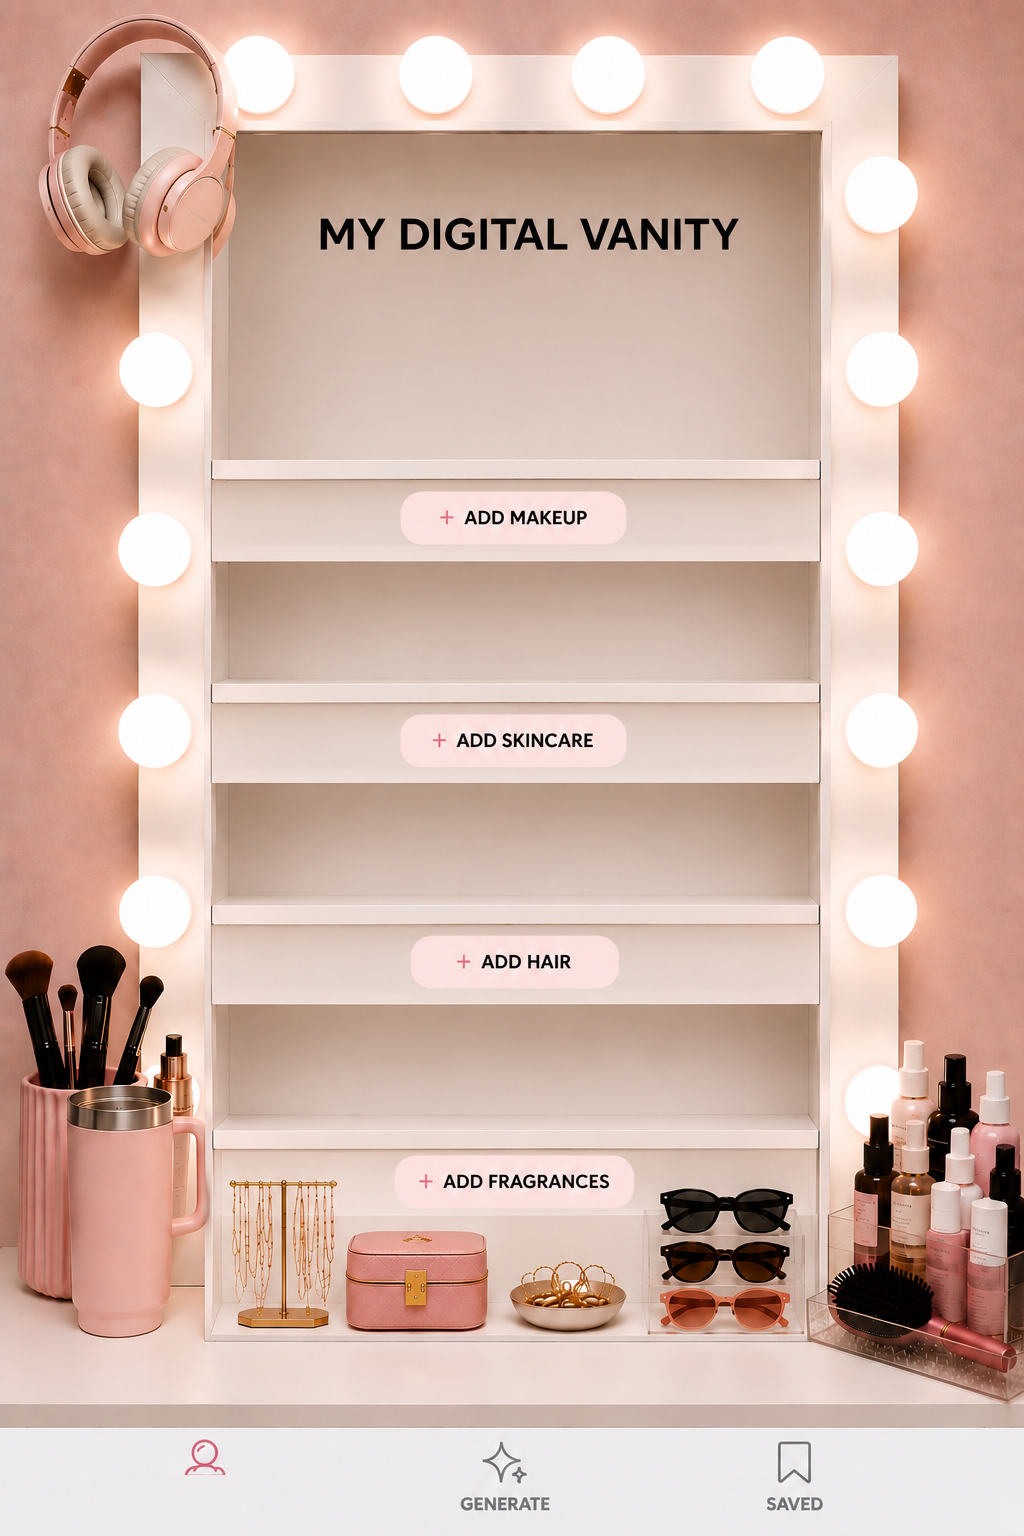
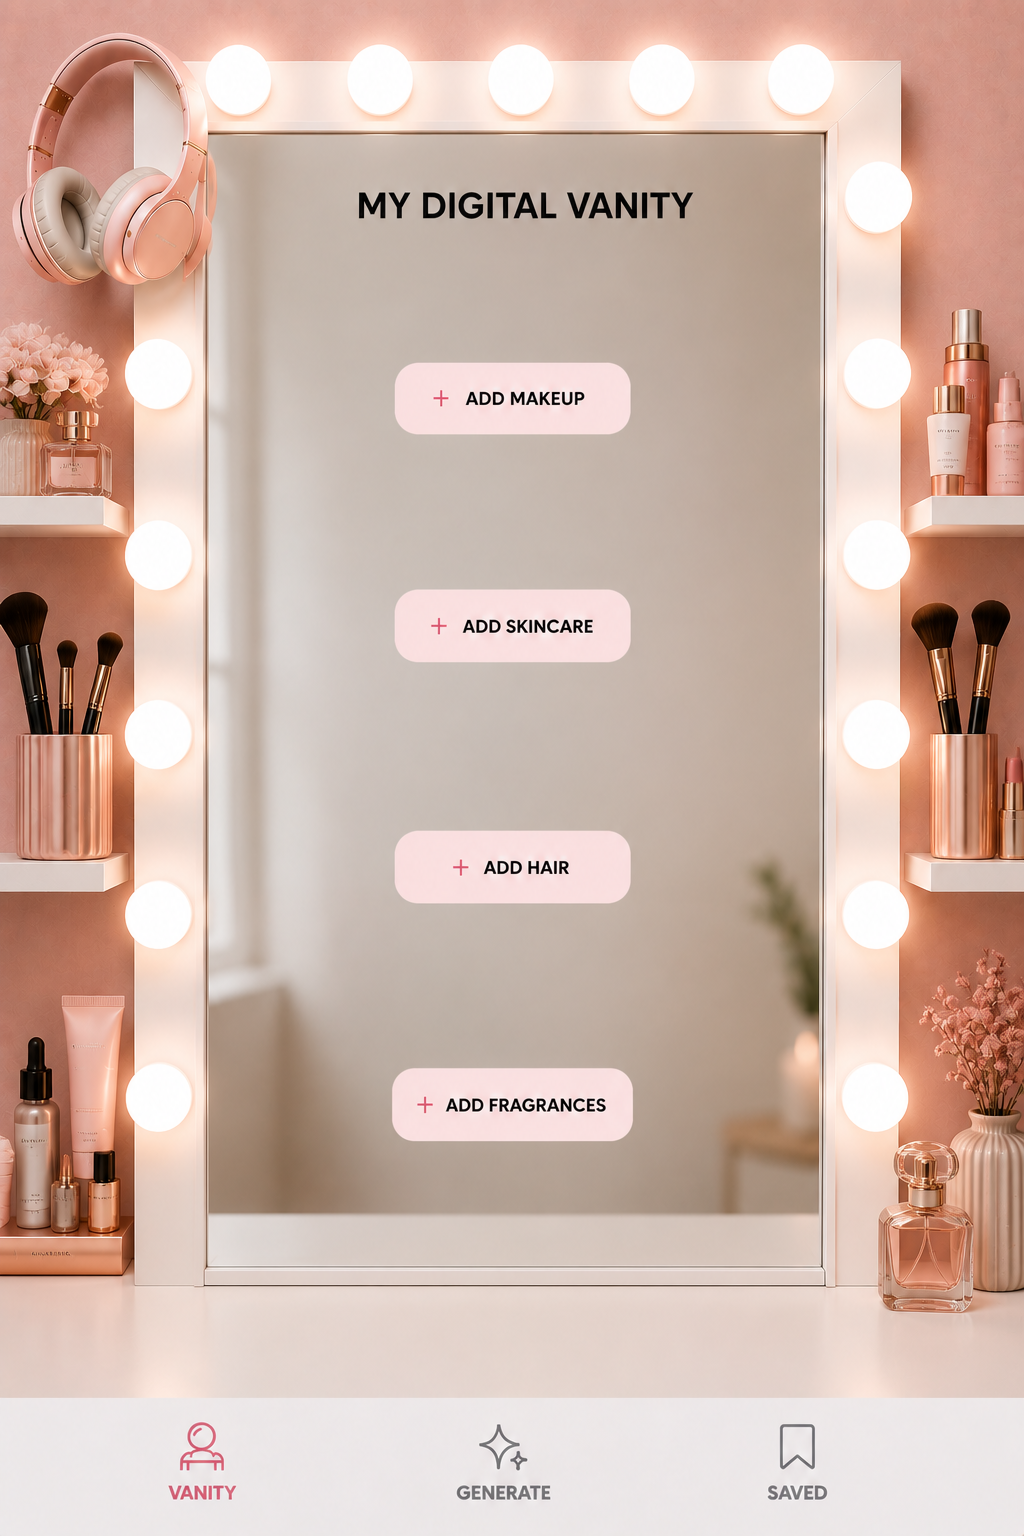
Update wardrobe page styling and refresh vanity background image
Replit-Commit-Author: Agent

diff --git a/artifacts/outfit-generator/src/pages/wardrobe.tsx b/artifacts/outfit-generator/src/pages/wardrobe.tsx
@@ -54,22 +54,23 @@ const IMG_H = 1536;
 const NAV_H = 90;
 
 // ── Landmark fractions (measured from the 1024×1536 vanity PNG) ──────────────
-// doorL/doorR: inner mirror area edges (inside the bulb frame)
-// rows[i]: sectionTop = y where section starts, shelfY = shelf surface y
-// btnCY: y-centre of the baked-in pink ADD pill in the background
+// Pixel-scanned from the new no-shelf background (6AC7C7ED…png).
+// doorL/doorR: inner mirror glass edges at mid-height (x=212, x=820 / 1024)
+// rows[i].btnCY:     y-centre of the baked-in pink ADD pill
+// rows[i].sectionTop: one pixel below the pill bottom — where items begin
+// rows[i].shelfY:     top of the NEXT pill — where items end
 const LM = {
-  doorL: 0.185,  // x≈190/1024 — left inner edge of white shelf area
-  doorR: 0.815,  // x≈835/1024 — right inner edge
+  doorL: 0.207,  // x≈212/1024 — left inner mirror glass edge
+  doorR: 0.801,  // x≈820/1024 — right inner mirror glass edge
 
   rows: [
-    { sectionTop: 0.185, shelfY: 0.395, btnCY: 0.305 },  // TOPS
-    { sectionTop: 0.395, shelfY: 0.555, btnCY: 0.478 },  // BOTTOMS
-    { sectionTop: 0.555, shelfY: 0.715, btnCY: 0.635 },  // SHOES
-    { sectionTop: 0.715, shelfY: 0.855, btnCY: 0.785 },  // ACCESSORIES
+    { sectionTop: 0.281, shelfY: 0.384, btnCY: 0.260 },  // MAKEUP     y=432–590
+    { sectionTop: 0.430, shelfY: 0.542, btnCY: 0.407 },  // SKINCARE   y=660–832
+    { sectionTop: 0.587, shelfY: 0.703, btnCY: 0.565 },  // HAIR       y=902–1080
+    { sectionTop: 0.742, shelfY: 0.820, btnCY: 0.723 },  // FRAGRANCES y=1140–1260
   ],
 
-  // Floating save area — just above the baked-in bottom shelf items
-  saveAreaY: 0.86,
+  saveAreaY: 0.84,
 } as const;
 
 // ── useImageRect ─────────────────────────────────────────────────────────────
@@ -260,7 +261,7 @@ export default function WardrobePage() {
             return (
               <React.Fragment key={key}>
 
-                {/* ── Item carousel — fills the entire shelf section ── */}
+                {/* ── Item carousel — fills the section between buttons ── */}
                 {items.length > 0 && (
                   <div
                     data-testid={`row-${key}`}
@@ -271,7 +272,7 @@ export default function WardrobePage() {
                       width:  carW,
                       height: secH,
                       zIndex: 10,
-                      overflow: "hidden",
+                      overflow: "visible",
                     }}
                   >
                     <ClosetRow
@@ -312,12 +313,12 @@ export default function WardrobePage() {
                     style={{
                       position: "absolute",
                       top:    secTop + 6,
-                      right:  ir.width - (carLeft + carW) + 6,
+                      left:   carLeft + carW - 34,
                       width:  28,
                       height: 28,
                       zIndex: 30,
                       background: "rgba(255,145,176,0.92)",
-                      border: "2px solid #000",
+                      border: "2px solid rgba(0,0,0,0.55)",
                       borderRadius: "50%",
                       cursor: "pointer",
                       display: "flex",
@@ -327,7 +328,7 @@ export default function WardrobePage() {
                       lineHeight: 1,
                       color: "#000",
                       fontWeight: 700,
-                      boxShadow: "2px 2px 0 #000",
+                      boxShadow: "1px 1px 4px rgba(0,0,0,0.25)",
                       padding: 0,
                     }}
                   >
@@ -340,15 +341,15 @@ export default function WardrobePage() {
           })}
 
 
-          {/* ── Saved shortcut — sits over the vanity chair bottom-left ── */}
+          {/* ── Saved shortcut — bottom-left of mirror glass, below FRAGRANCES ── */}
           <button
             onClick={() => navigate("/favorites")}
             data-testid="button-saved"
             aria-label="View saved looks"
             style={{
               position: "absolute",
-              top:    pY(ir, 0.895),
-              left:   ir.left + pW(ir, 0.04),
+              top:    pY(ir, 0.832),
+              left:   pX(ir, LM.doorL + 0.01),
               width:  44,
               height: 44,
               borderRadius: "50%",